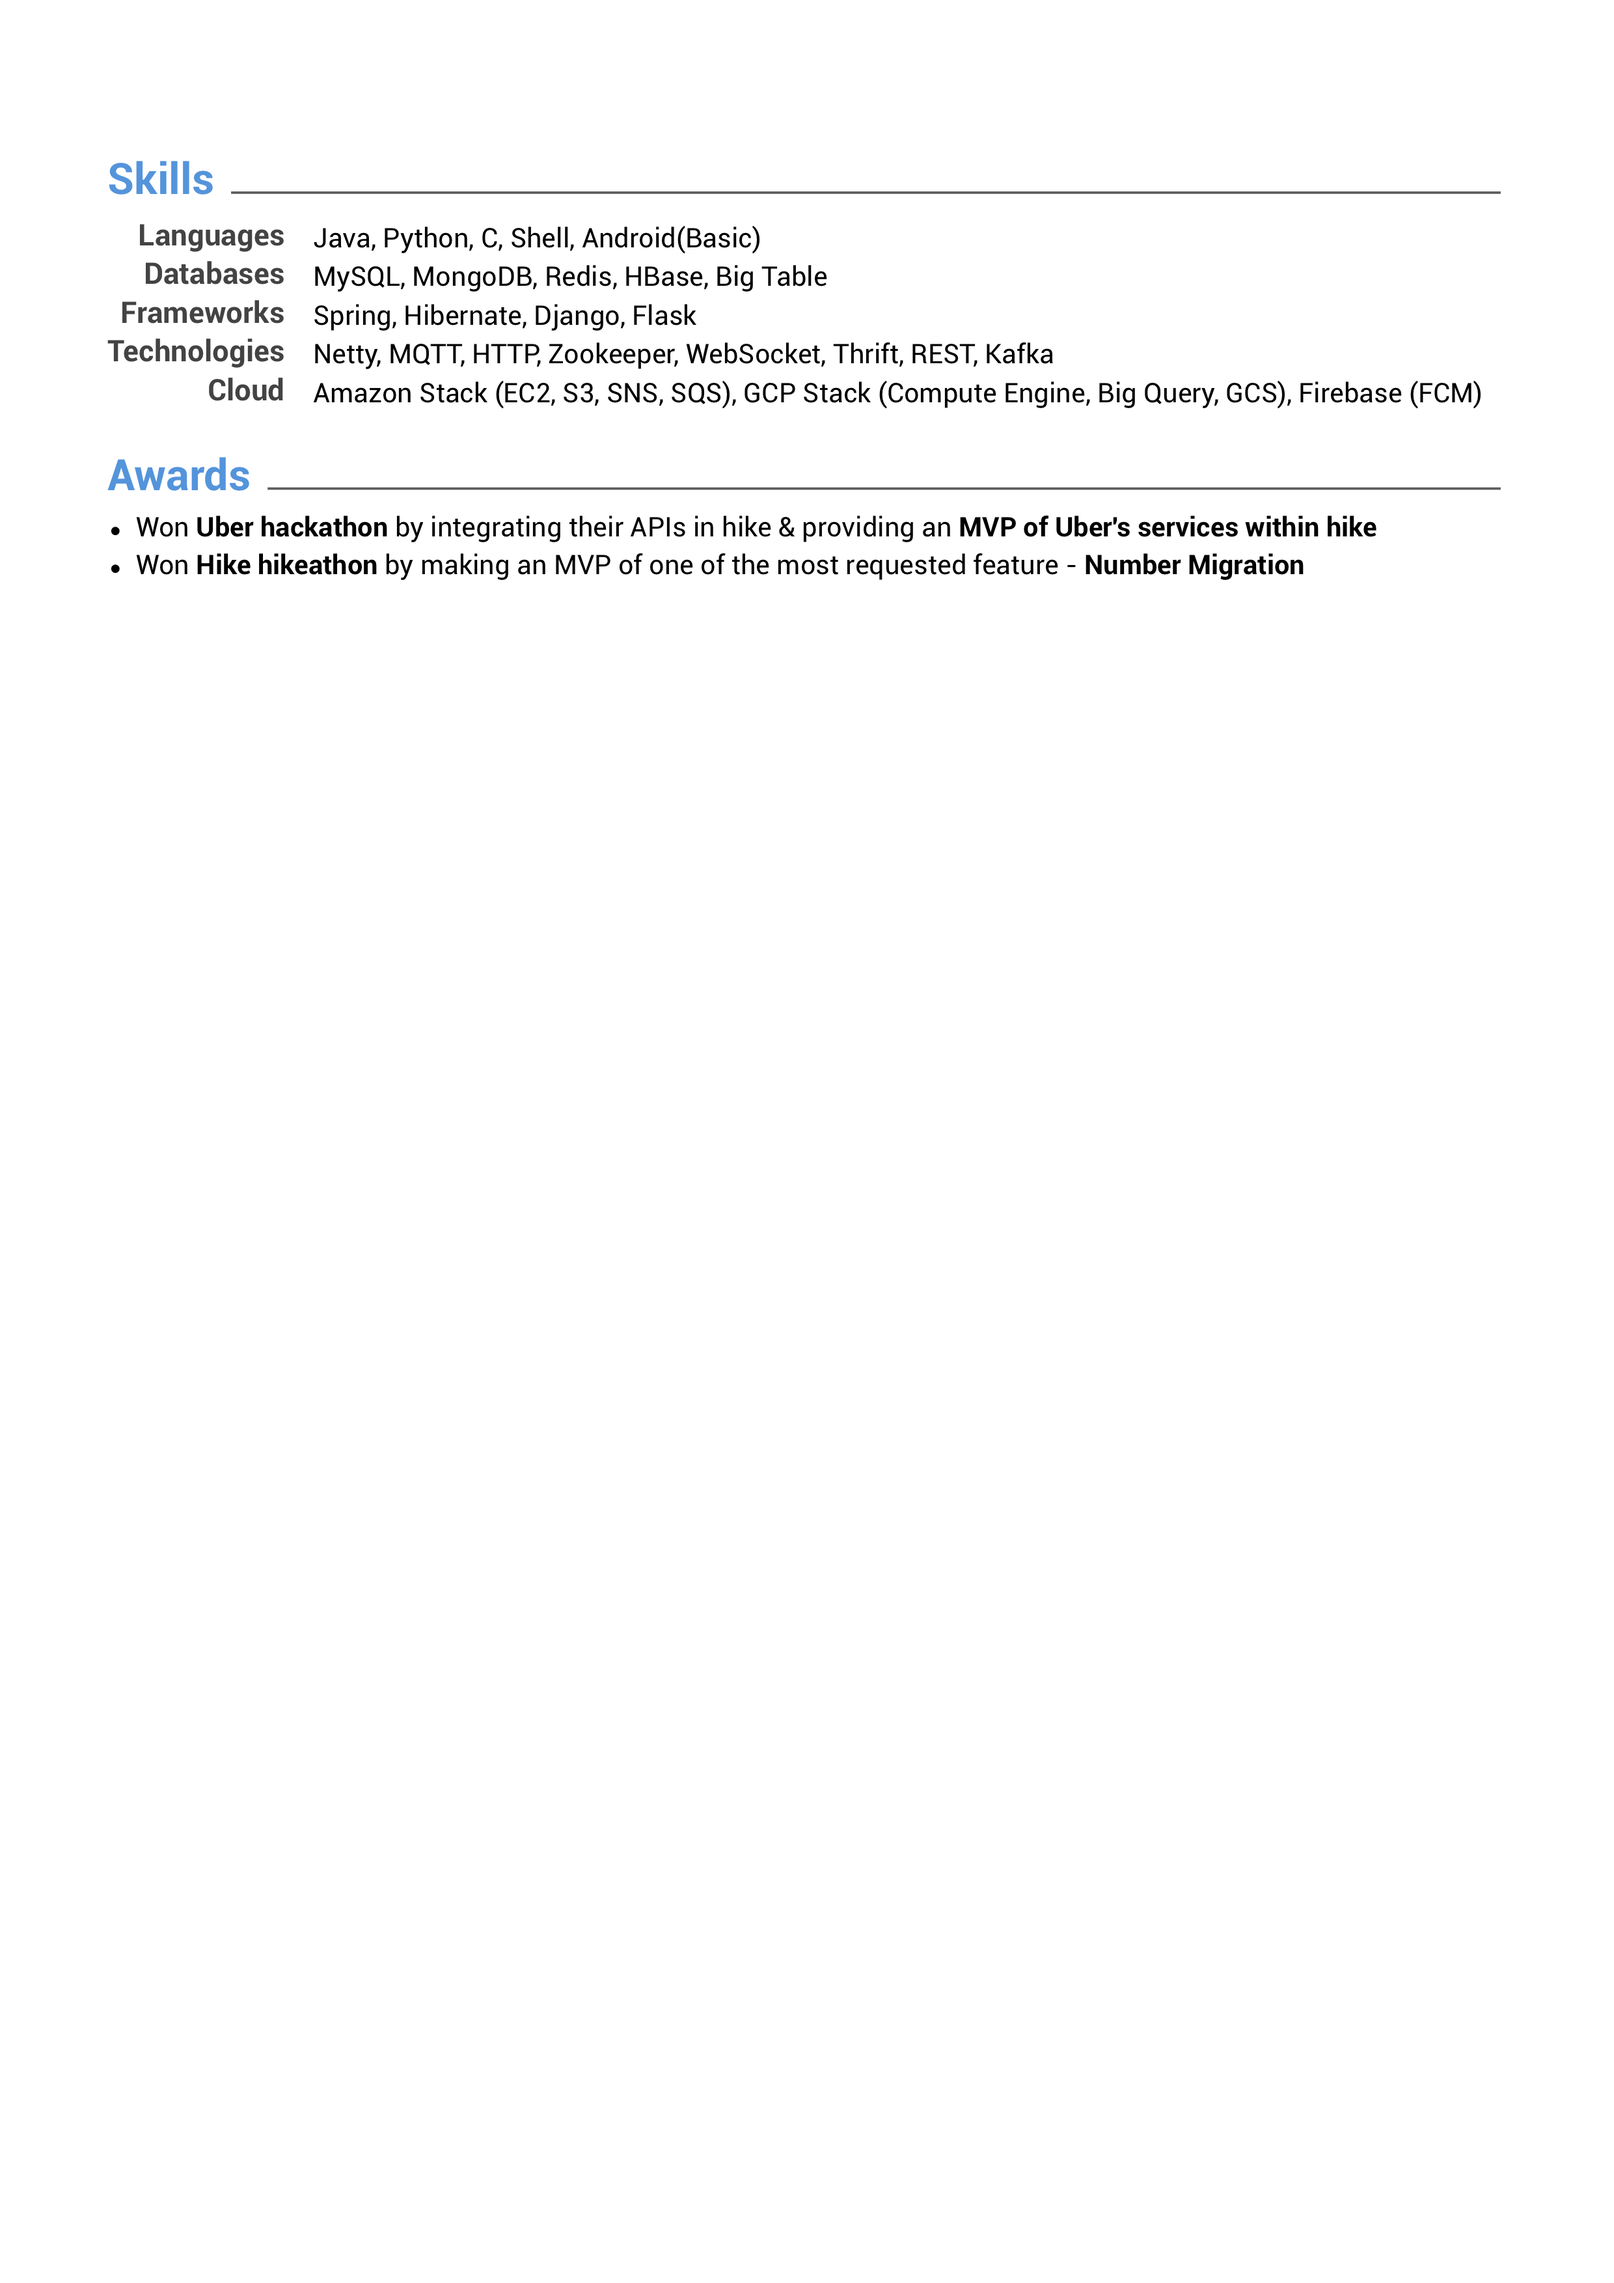
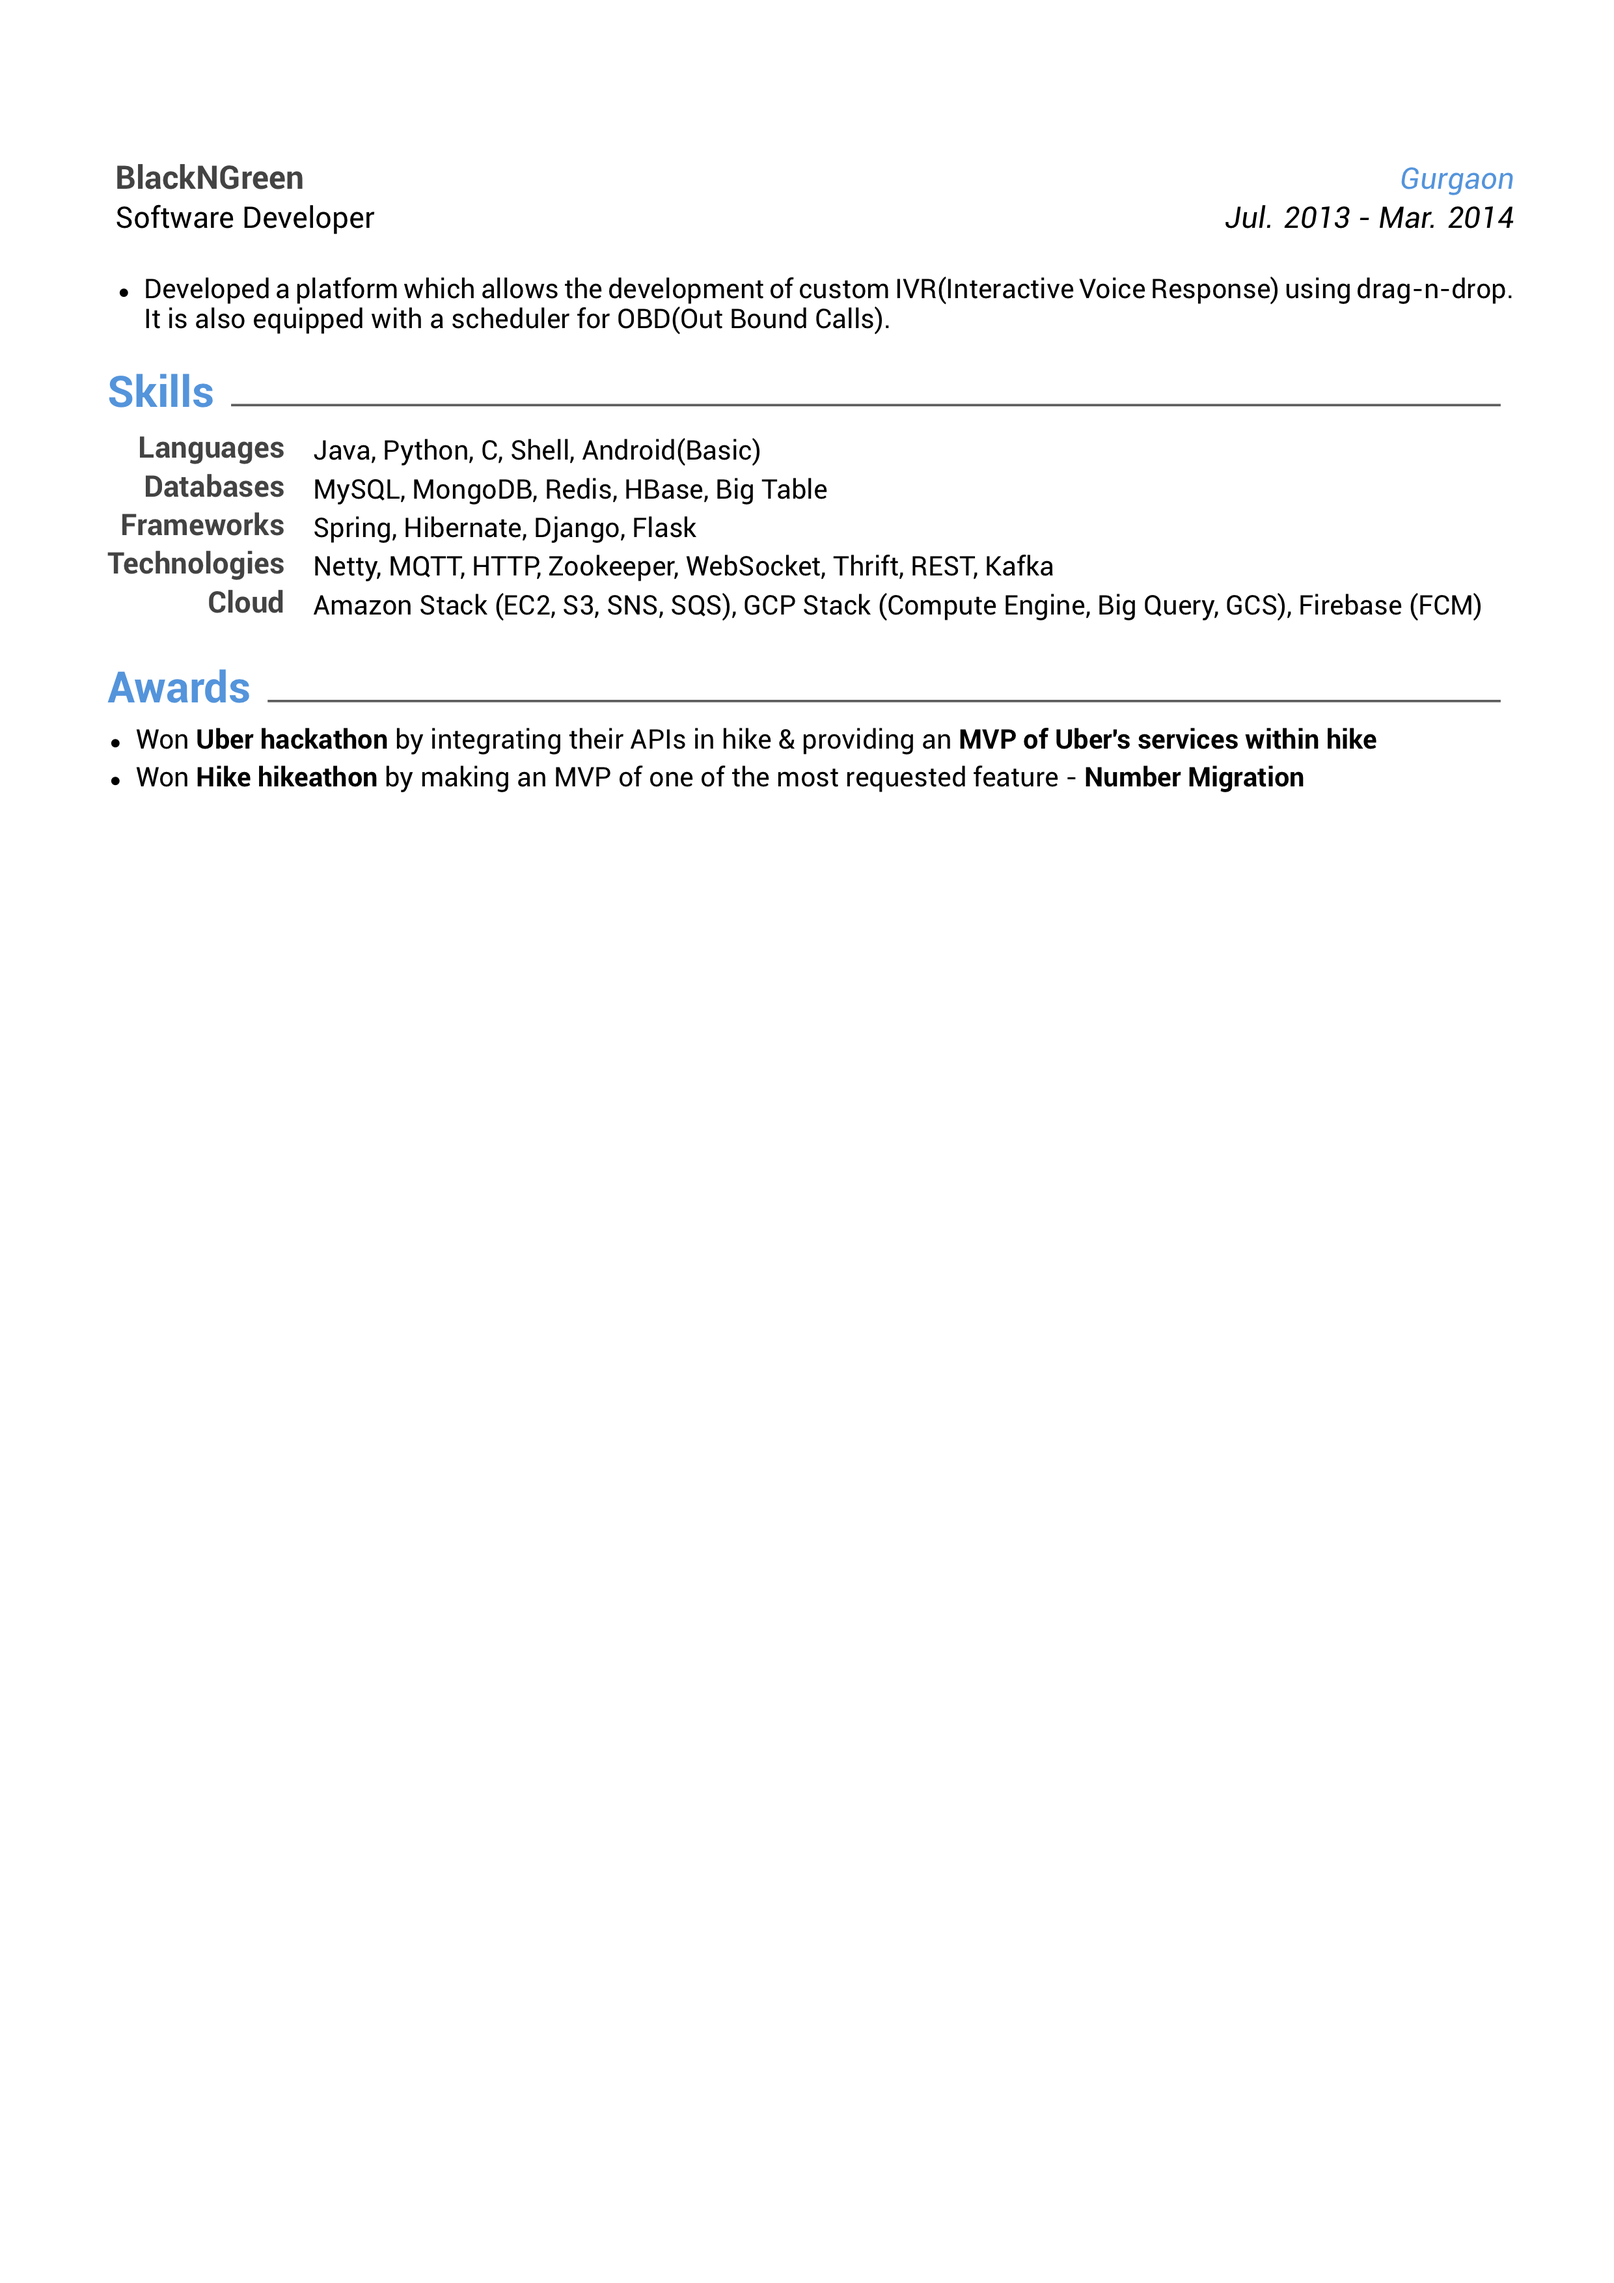
updated spacing

Changed region(s): [[0.0621, 0.0622, 0.9315, 0.3419], [0.8694, 0.0622, 0.9315, 0.0932]]

diff --git a/resume/experience.tex b/resume/experience.tex
@@ -7,7 +7,7 @@
     {Delhi} % Location
     {May 2014 - Present} % Date(s)
     {
-     \vspace{3pt}
+     \vspace{13pt}
       \begin{cvitems} % Description(s) of tasks/responsibilities
         \item {Working in \textbf{core backend team} of hike \textbf{responsible for entire end-to-end backend of messaging} \textbf{for 100+ million users}. Have headed \& \textbf{architected several projects from scratch} from the initial days of hike. Have also \textbf{scaled \& re-architected} several parts of the systems in my tenure to \textbf{handle exponential growth} seen by hike both in terms of \textbf{messaging and number of users}}
 		\item {\textbf{Lead the Architecture and Implementation} of the following features' \textbf{end-to-end backend}}
@@ -98,7 +98,7 @@
     {Gurgaon} % Location
     {Jul. 2013 - Mar. 2014} % Date(s)
     {
-     \vspace{3pt}
+     \vspace{13pt}
       \begin{cvitems} % Description(s) of tasks/responsibilities
         \item {Developed a platform which allows the development of custom IVR(Interactive Voice Response) using drag-n-drop. It is also equipped with a scheduler for OBD(Out Bound Calls).}
       \end{cvitems}
